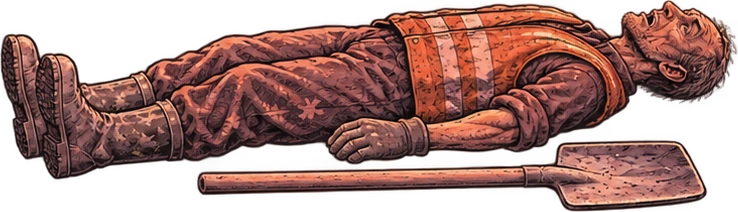
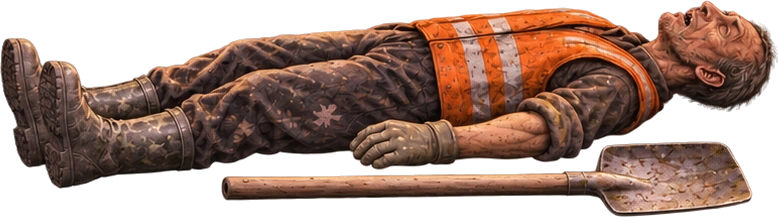
feat(fight): redraw fighters with cinematic digitized sprites
Match the approved reference-02 look across all 24 poses while preserving combat timing and source-space anchors.

diff --git a/scene-lab/tests/fight-art.spec.ts b/scene-lab/tests/fight-art.spec.ts
@@ -1,0 +1,36 @@
+import { expect, test } from '@playwright/test';
+
+test('all fighter poses decode at their manifest size with transparent cutouts and visible bodies', async ({ page }) => {
+  await page.goto('./fight.html');
+  await expect(page.locator('#start')).toHaveText('НАЧАТЬ БОЙ →');
+  const poses = await page.evaluate(async () => {
+    const response = await fetch('./art/fight/manifest.json');
+    if (!response.ok) throw new Error(`Manifest HTTP ${response.status}`);
+    const manifest = await response.json() as Record<string, { width: number; height: number; scale: number }[]>;
+    return Promise.all(['boxer', 'worker'].flatMap(name => manifest[name].map(async (frame, index) => {
+      const image = new Image();
+      image.src = `./art/fight/${name}-${index}.webp`;
+      await image.decode();
+      const canvas = document.createElement('canvas');
+      canvas.width = image.naturalWidth; canvas.height = image.naturalHeight;
+      const context = canvas.getContext('2d')!;
+      context.drawImage(image, 0, 0);
+      const pixels = context.getImageData(0, 0, canvas.width, canvas.height).data;
+      let opaque = 0, transparent = 0;
+      for (let i = 3; i < pixels.length; i += 4) {
+        if (pixels[i] >= 200) opaque++;
+        if (pixels[i] === 0) transparent++;
+      }
+      return { name, index, width: image.naturalWidth, height: image.naturalHeight, frame, opaque, transparent };
+    })));
+  });
+  expect(poses).toHaveLength(24);
+  for (const pose of poses) {
+    const label = `${pose.name}-${pose.index}`;
+    expect(pose.width, label).toBe(pose.frame.width);
+    expect(pose.height, label).toBe(pose.frame.height);
+    expect(pose.opaque, label).toBeGreaterThan(10_000);
+    expect(pose.transparent / (pose.width * pose.height), label).toBeGreaterThan(.1);
+    expect(pose.frame.scale, label).toBeGreaterThan(0);
+  }
+});

diff --git a/assets/prototypes/gameplay/prepare-fight-assets.py b/assets/prototypes/gameplay/prepare-fight-assets.py
@@ -1,20 +1,11 @@
 from array import array
+import argparse
 from collections import deque
 from pathlib import Path
 import json
 from PIL import Image
 
-ROOT = Path(__file__).resolve().parents[3]
-SOURCE = Path(__file__).resolve().parent
-OUTPUT = ROOT / 'scene-lab/public/art/fight'
-OUTPUT.mkdir(parents=True, exist_ok=True)
-Image.open(SOURCE / 'fight-arena-source.png').convert('RGB').save(OUTPUT / 'arena.webp', quality=91)
-manifest = {}
-for name, anchors, baselines in [
-    ('boxer', [178, 530, 890, 1245, 177, 530, 890, 1250], [514]*4 + [1066, 1066, 1066, 915]),
-    ('worker', [180, 540, 920, 1275, 215, 575, 935, 1270], [528]*4 + [1050]*4),
-]:
-    im = Image.open(SOURCE / f'fight-{name}-source.png').convert('RGBA')
+def components(im, minimum):
     w, h = im.size
     alpha = im.getchannel('A').tobytes()
     labels = array('i', [0]) * (w*h)
@@ -35,10 +26,31 @@ for name, anchors, baselines in [
                 if not labels[q] and alpha[q] >= 24:
                     labels[q] = component
                     queue.append(q)
-        if len(points) > 12000:
+        if len(points) > minimum:
             xs = [p % w for p in points]
             ys = [p // w for p in points]
             objects.append((min(xs), min(ys), max(xs)+1, max(ys)+1, component))
+    return alpha, labels, objects
+
+
+ROOT = Path(__file__).resolve().parents[3]
+SOURCE = Path(__file__).resolve().parent
+parser = argparse.ArgumentParser()
+parser.add_argument('--fighters-source', type=Path, default=SOURCE)
+parser.add_argument('--output', type=Path, default=ROOT / 'scene-lab/public/art/fight')
+args = parser.parse_args()
+OUTPUT = args.output
+OUTPUT.mkdir(parents=True, exist_ok=True)
+Image.open(SOURCE / 'fight-arena-source.png').convert('RGB').save(OUTPUT / 'arena.webp', quality=91)
+manifest = {}
+for name, anchors, baselines in [
+    ('boxer', [178, 530, 890, 1245, 177, 530, 890, 1250], [514]*4 + [1066, 1066, 1066, 915]),
+    ('worker', [180, 540, 920, 1275, 215, 575, 935, 1270], [528]*4 + [1050]*4),
+]:
+    im = Image.open(args.fighters_source / f'fight-{name}-source.png').convert('RGBA')
+    assert im.size == (1448, 1086), (name, im.size)
+    w, h = im.size
+    alpha, labels, objects = components(im, 12000)
     assert len(objects) == 8, (name, objects)
     objects.sort(key=lambda r: (int((r[1]+r[3])/2 > h/2), r[0]))
     frames = []
@@ -56,12 +68,19 @@ for name, anchors, baselines, scales in [
 ]:
     for frame in manifest[name]:
         frame['scale'] = 1.22 if name == 'worker' else 1.19
-    im = Image.open(SOURCE / f'fight-{name}-extra-source.png').convert('RGBA')
+    im = Image.open(args.fighters_source / f'fight-{name}-extra-source.png').convert('RGBA')
+    assert im.size == (1774, 887), (name, im.size)
     w, h = im.size
     for i in range(4):
         x0, y0 = i % 2 * (w // 2), i // 2 * (h // 2)
         rect = (x0, y0, (i % 2 + 1) * (w // 2), h if i > 1 else h // 2)
         cell = im.crop(rect)
+        if args.fighters_source.resolve() != SOURCE:
+            alpha, labels, objects = components(cell, 10000)
+            assert objects, (name, i + 8, 'No visible pose')
+            retained = {obj[4] for obj in objects}
+            cell.putalpha(Image.frombytes('L', cell.size,
+                bytes(a if labels[p] in retained else 0 for p, a in enumerate(alpha))))
         bbox = cell.getchannel('A').point(lambda value: 255 if value >= 24 else 0).getbbox()
         assert bbox and (bbox[2]-bbox[0]) * (bbox[3]-bbox[1]) > 10000
         crop = cell.crop(bbox)

diff --git a/assets/prototypes/gameplay/digitized/test_prepare.py b/assets/prototypes/gameplay/digitized/test_prepare.py
@@ -1,0 +1,74 @@
+from pathlib import Path
+from tempfile import TemporaryDirectory
+import json
+import subprocess
+import sys
+import unittest
+from PIL import Image
+
+SCRIPT = Path(__file__).resolve().parents[1] / 'prepare-fight-assets.py'
+
+
+class PrepareTest(unittest.TestCase):
+    def setUp(self):
+        self.temp = TemporaryDirectory()
+        self.addCleanup(self.temp.cleanup)
+        self.source = Path(self.temp.name) / 'source'
+        self.output = Path(self.temp.name) / 'output'
+        self.source.mkdir()
+        for name in ['boxer', 'worker']:
+            main = Image.new('RGBA', (1448, 1086))
+            for i in range(8):
+                main.paste((90, 100, 110, 255), (40 + i % 4 * 360, 50 + i // 4 * 540,
+                    190 + i % 4 * 360, 450 + i // 4 * 540))
+            main.save(self.source / f'fight-{name}-source.png')
+            extra = Image.new('RGBA', (1774, 887))
+            for i in range(4):
+                x, y = i % 2 * 887, i // 2 * 443
+                extra.paste((90, 100, 110, 255), (x + 60, y + 60, x + 260, y + 360))
+                extra.putpixel((x + 1, y + 1), (255, 0, 0, 255))
+            if name == 'worker':
+                extra.paste((150, 120, 80, 255), (1187, 743, 1437, 823))
+            extra.save(self.source / f'fight-{name}-extra-source.png')
+
+    def run_prepare(self):
+        return subprocess.run([sys.executable, str(SCRIPT), '--fighters-source', str(self.source),
+            '--output', str(self.output)], capture_output=True, text=True)
+
+    def test_alternate_sheets_keep_pose_anchors_and_detached_shovel_without_fragments(self):
+        result = self.run_prepare()
+        self.assertEqual(result.returncode, 0, result.stderr)
+        manifest = json.loads((self.output / 'manifest.json').read_text())
+        self.assertEqual(set(manifest), {'boxer', 'worker'})
+        for name in ['boxer', 'worker']:
+            self.assertEqual(len(manifest[name]), 12)
+            for i, frame in enumerate(manifest[name]):
+                with Image.open(self.output / f'{name}-{i}.webp') as image:
+                    self.assertEqual(image.size, (frame['width'], frame['height']))
+            self.assertEqual(manifest[name][8]['width'], 200)
+            self.assertEqual(manifest[name][8]['height'], 300)
+        self.assertEqual(manifest['boxer'][0]['anchorX'], 138)
+        self.assertEqual(manifest['boxer'][0]['anchorY'], 464)
+        self.assertEqual(manifest['worker'][11]['width'], 490)
+        self.assertEqual(manifest['worker'][11]['height'], 320)
+        with Image.open(self.output / 'worker-11.webp') as image:
+            self.assertEqual(image.getpixel((300, 270))[3], 255)
+            self.assertEqual(image.getpixel((220, 270))[3], 0)
+
+    def test_wrong_sheet_size_is_rejected(self):
+        Image.new('RGBA', (100, 100)).save(self.source / 'fight-boxer-source.png')
+        result = self.run_prepare()
+        self.assertNotEqual(result.returncode, 0)
+        self.assertIn('(100, 100)', result.stderr)
+        self.assertFalse((self.output / 'manifest.json').exists())
+
+    def test_missing_main_poses_are_rejected(self):
+        Image.new('RGBA', (1448, 1086)).save(self.source / 'fight-boxer-source.png')
+        result = self.run_prepare()
+        self.assertNotEqual(result.returncode, 0)
+        self.assertIn("('boxer', [])", result.stderr)
+        self.assertFalse((self.output / 'manifest.json').exists())
+
+
+if __name__ == '__main__':
+    unittest.main()

diff --git a/scene-lab/README.md b/scene-lab/README.md
@@ -19,6 +19,17 @@
 
 Исходные PNG, промпты и воспроизводимый скрипт нарезки `prepare-fight-assets.py` (Python 3 + Pillow) сохранены в `assets/prototypes/gameplay/`. Runtime WebP и якоря поз — в `public/art/fight/`. Ошибка загрузки любого обязательного рисунка блокирует старт и позволяет повторить загрузку без перезагрузки страницы. Проверки: `tests/fight.test.ts`, `tests/fight.spec.ts`.
 
+В экспериментальной ветке `feature/digitized-fighters` все 24 позы бойцов перерисованы по одобренному референсу №2: объёмная фактура кожи и одежды, тёплые блики и холодные тени вместо комиксной штриховки. Это сгенерированные спрайты с эстетикой оцифрованных актёров. Фон и интерфейс остаются прежними. Референс, четыре прозрачных листа и точные промпты встроенного imagegen сохранены в `assets/prototypes/gameplay/digitized/`. Нарезка сохраняет исходные точки привязки на листах и масштаб, пересчитывая рамки под новый рисунок.
+
+Для подготовки этой версии из корня репозитория:
+
+```sh
+python3 assets/prototypes/gameplay/prepare-fight-assets.py --fighters-source assets/prototypes/gameplay/digitized
+python3 assets/prototypes/gameplay/digitized/test_prepare.py
+```
+
+Без `--fighters-source` скрипт восстанавливает исходный комиксный арт. Необязательный `--output` задаёт отдельный каталог результата. Проверка `tests/fight-art.spec.ts` декодирует все 24 спрайта в браузере и проверяет размеры, прозрачность и видимое содержимое.
+
 ### Первый проход настройки темпа
 
 Оглушение от прямого удара — 320 мс: немедленная отмена J → K → ↓K остаётся непрерывной, а повтор одиночного J после полного возврата оставляет окно для блока даже у стены. Серия ↓J → ↓K также сохраняется. Это измеренная проверка возможностей модели, а не оценка удобства таймингов для всех игроков.
